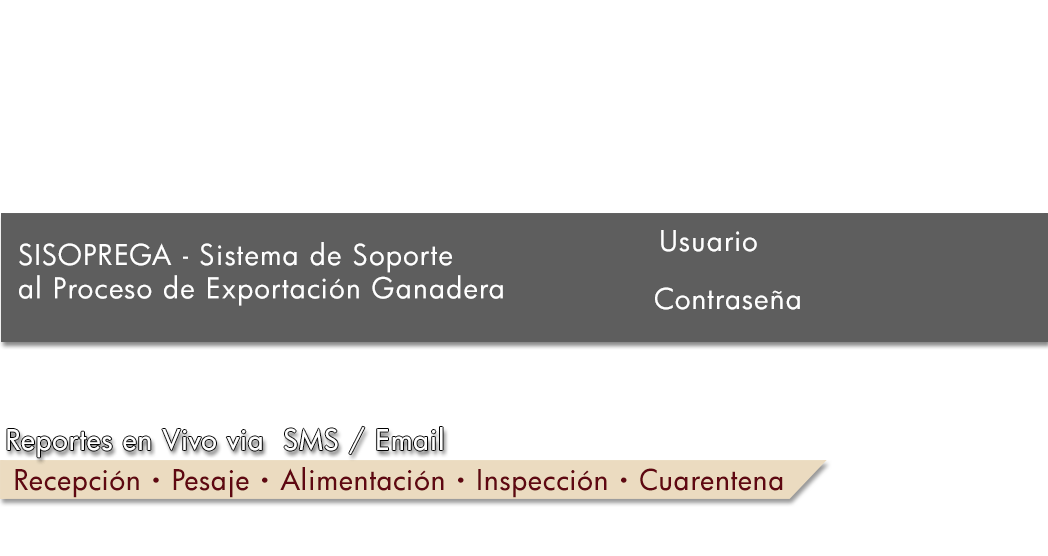
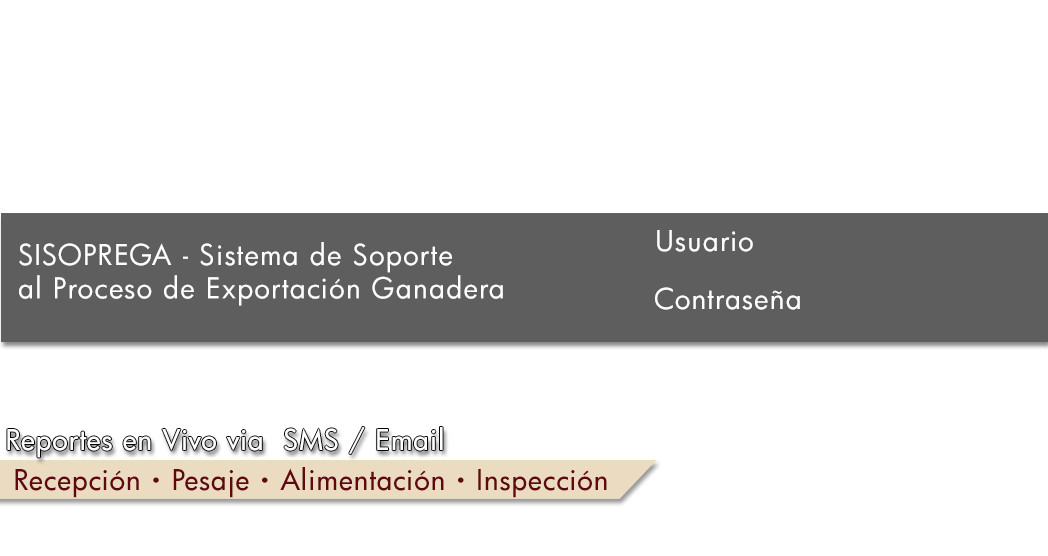
Added logout button and fix bug on login textboxes

Changed region(s): [[0.5802, 0.8255, 0.7939, 0.9173], [0.6107, 0.3975, 0.7328, 0.4586]]

diff --git a/UI/frontEnd/ranchers/source/ranchers.reports.js b/UI/frontEnd/ranchers/source/ranchers.reports.js
@@ -9,7 +9,8 @@ enyo.kind({
 		onFeedReport:"",
 		onInspectionReport:"",
 		onHistoricalReport:"",
-		onUpdateProfile:""
+		onUpdateProfile:"",
+		onGoBack:""
 	},
 	components: [
 		{kind: "FittableColumns",classes: "reportsBG", fit: true, components: [
@@ -24,7 +25,13 @@ enyo.kind({
 				{style: "height: 1%; position: relative; z-index: 1;"},								
 				{style: "height: 12%;width:92%",classes: "reportHistoricalBG", onclick:"doHistoricalReport"},
 				{style: "height: 1%; position: relative; z-index: 1;"},								
-				{style: "height: 12%;width:94%",classes: "rancherProfileBG", onclick:"doUpdateProfile"},												
+				{style: "height: 12%;width:94%",classes: "rancherProfileBG", onclick:"doUpdateProfile"},
+				{style: "height: 3%; position: relative; z-index: 1;"},								
+				{style: "height: 5%;",classes: "logOutBG", kind:"FittableColumns",
+				 components:[
+		 			{style: "width:85%"},
+				 	{kind:"onyx.Button", fit:true, content: "Salir", onclick:"doGoBack"}
+				]},																
 			]}
 		]}
 	],

diff --git a/UI/frontEnd/ranchers/source/ranchers.js b/UI/frontEnd/ranchers/source/ranchers.js
@@ -9,7 +9,7 @@ enyo.kind({
 			{kind: "ranchers.login",onSucess:"loadReports"},
 			{kind: "ranchers.reports",onMBYReport:"loadBYMReport", onFeedReport:"loadFeedReport",
 			 onInspectionReport:"loadInspectionReport", onHistoricalReport:"loadHistoricalReport",
-			 onUpdateProfile:"loadUpdateProfile",onGoBack:"stepBack"},
+			 onUpdateProfile:"loadUpdateProfile",onGoBack:"loadLogIn"},
 			{kind: "receptions.barnyards.map",onGoBack:"stepBack"}
 		]},
 	],
@@ -17,6 +17,10 @@ enyo.kind({
 		this.inherited(arguments);
 		this.$.main.setIndex(0);		
 	},
+	loadLogIn:function(){
+        this.inherited(arguments);
+		this.$.main.setIndex(0);		
+	},	
 	loadUpdateProfile:function(){
 		alert('TODO:Profile')
 	},

diff --git a/UI/frontEnd/ranchers/css/cssx.css b/UI/frontEnd/ranchers/css/cssx.css
@@ -1,18 +1,3 @@
-body {
-  -moz-user-select: -moz-none;
-  -khtml-user-select: none;
-  -webkit-user-select: none;
-  -ms-user-select: none;
-  user-select: none;
-}
-* {
--webkit-touch-callout: none;
--webkit-user-select: none;
--khtml-user-select: none;
--moz-user-select: none;
--ms-user-select: none;
-user-select: none;
-}
 .divider{
 	min-width: 3px;
 	border-width: 0px;
@@ -22,6 +7,9 @@ user-select: none;
 	width:100%;
 	height:5px;
 	margin-bottom:5px;
+}
+.logOutBG{
+	cursor:pointer;	
 }
 .bymBG{
 	background-color: #d8d8d8;

diff --git a/UI/frontEnd/package.js b/UI/frontEnd/package.js
@@ -1,0 +1,14 @@
+// JavaScript Document
+enyo.depends( 
+  "$lib/onyx",
+  "$lib/layout",
+  "source/ranchers.js",
+  "source/ranchers.login.js",
+  "source/ranchers.reports.js",  
+  "source/receptions.barnyards.map.js",    
+  "../source/cache.js",
+  "../source/cache.barnyards.js",  
+  "source/cache.receptions.js",    
+  "css/cssx.css",
+  "../css/transitions.css"  
+);
